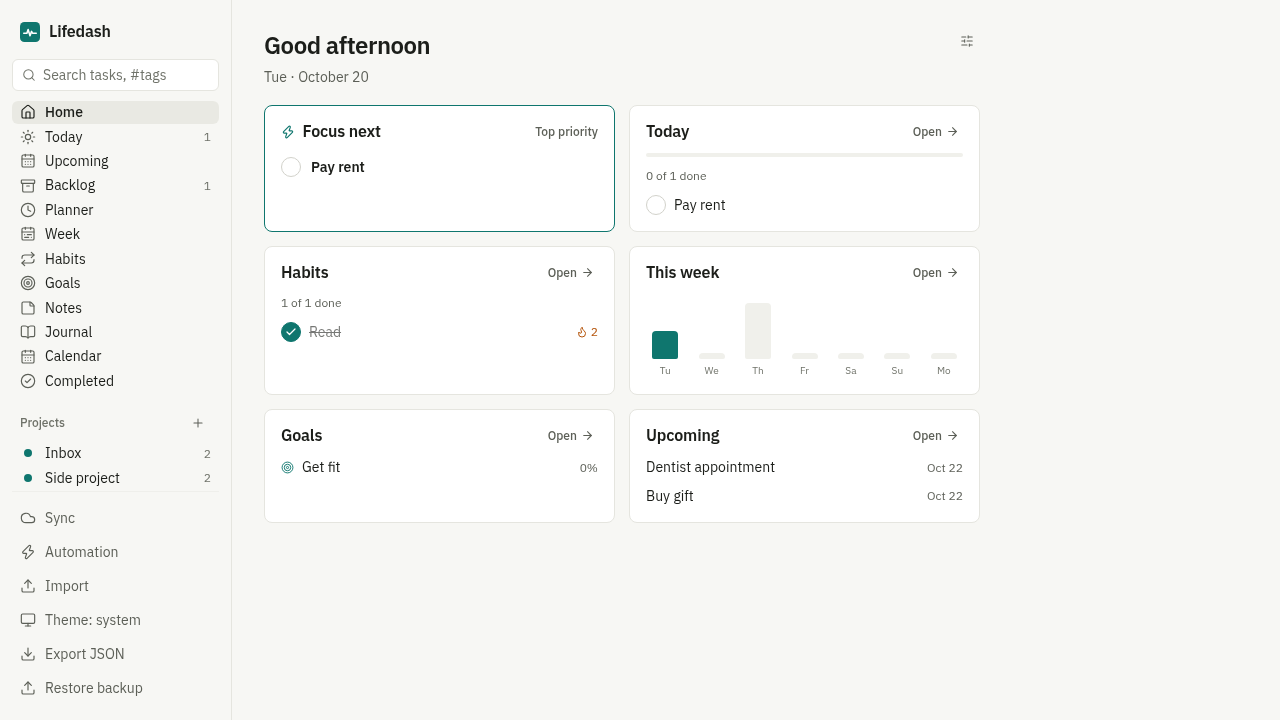
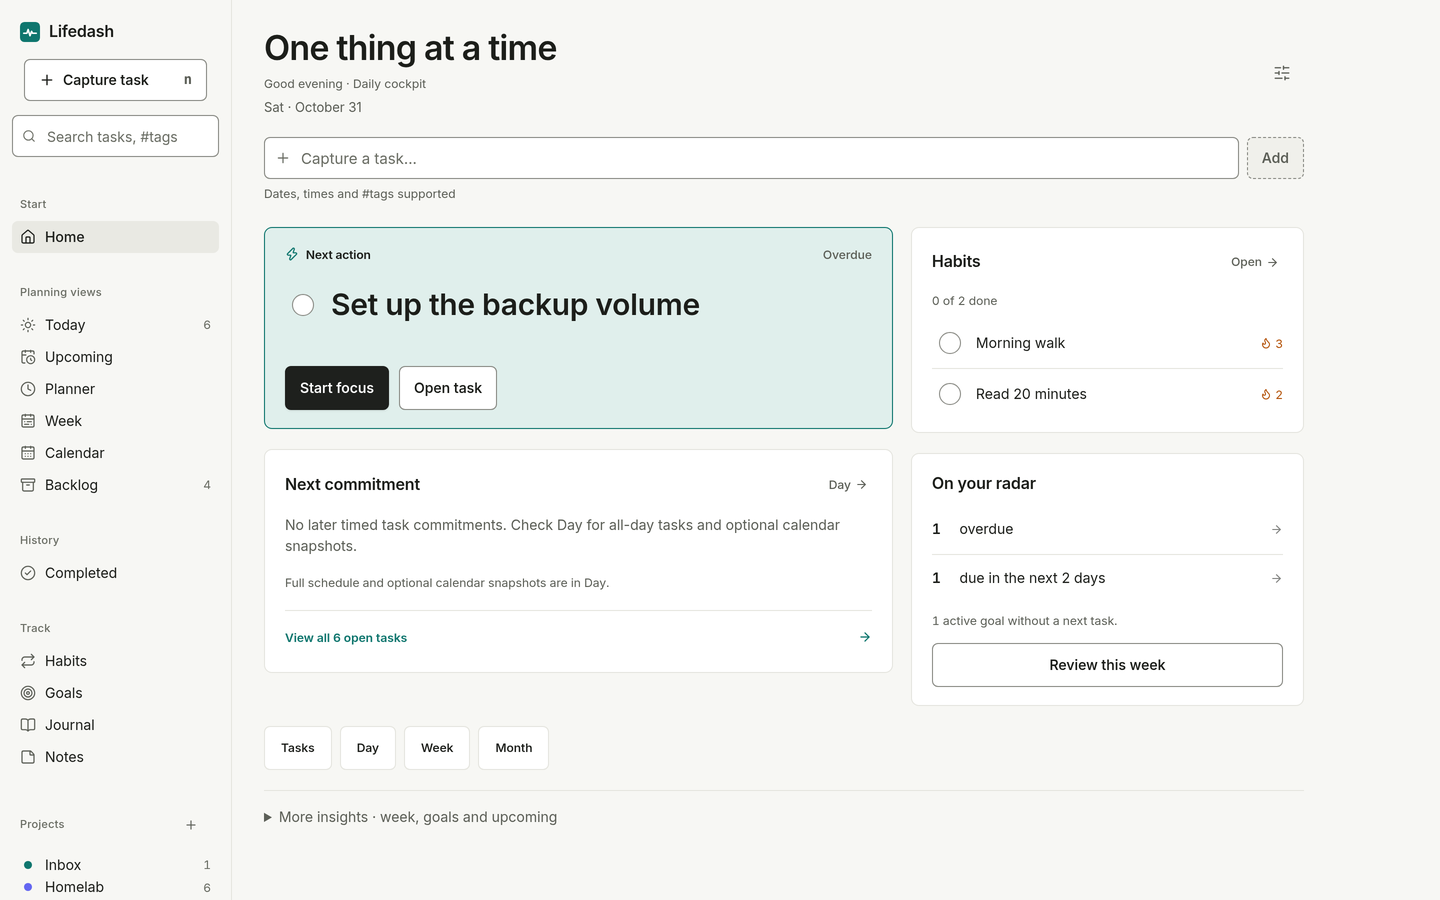
Rewrite README for open-sourcing with current screenshots
Restructured around a clear tagline, why/features, quick start, Docker
self-host and documentation map. New screenshots from the current UI
(home desktop light, week dark, habits, home mobile) captured with
fictional sample data, replacing the pre-theme-work shots. Fixes: the
SYNC_DB default now matches the code (/data/lifedash.db), the empty
Docs section is filled, and a Status section states what is and is not
included (manual ICS calendar exchange, no provider integration yet).
The restore hazard is called out before the self-host guide link rather
than smoothed over.

diff --git a/README.md b/README.md
@@ -1,70 +1,30 @@
-# LifeDash
+# Lifedash
 
-A whole-life dashboard built around a centralized task app: tasks, projects,
-habits, goals, notes, a journal and a day planner in one place. Local-first
-and installable as a PWA on desktop and mobile; an optional self-hosted sync
-server keeps devices in step.
+**Your whole life in one dashboard.** Tasks, projects, habits, goals, notes,
+a journal and a day planner in one place. Local-first and installable as a
+PWA on desktop and mobile; an optional self-hosted sync server keeps your
+devices in step.
 
-Single user, in active development.
+[![CI](https://github.com/JavohirMX/lifedash/actions/workflows/ci.yml/badge.svg)](https://github.com/JavohirMX/lifedash/actions/workflows/ci.yml)
 
-## Self-host
-
-From the repository root, run `make setup` for a guided Docker Compose setup
-(Python 3 and make required). It checks Docker/Compose/config, explains the
-network exposure and asks before building or starting services.
-`make setup-check` only runs the read-only preflight. It never starts services.
-The helper pins the root Compose file (ignores `COMPOSE_FILE` and implicit
-overrides), but your Docker context and `COMPOSE_PROJECT_NAME` still apply.
-Confirm the intended host/project before consenting: existing services may be
-recreated. Custom override stacks should use manual Compose. Its health check
-runs inside the selected sync container, not an unrelated service on a host port.
-
-Or start directly with Docker Compose:
-
-    docker compose up --build
-
-App on http://localhost:8080, sync server on http://localhost:8787.
-Open the bundled setup checklist at `http://localhost:8080/selfhost.html`
-(or use the setup-guide link in Settings). It walks through first-account setup,
-HTTPS/device URLs, sync limits and backups without contacting another service.
-
-Details and other deployment options: [server/SELFHOST.md](server/SELFHOST.md).
-
-## Local development
-
-Run `make install` once to install npm dependencies and a server virtual
-environment, including test dependencies. Then `make dev` starts the app on
-Vite's local URL and the sync server on http://127.0.0.1:8787. Ctrl-C stops
-both. `make test` runs both suites; `make build` builds the frontend.
-`make help` lists individual app/server and Docker targets. Python 3 with
-venv support, Node/npm and make are required. Docker targets additionally
-need Docker Engine and the Compose plugin.
-
-`make test-keyboard` starts a temporary loopback Vite server and runs the
-sample-only desktop/phone keyboard checks for dialogs, Appearance, the command
-palette, mobile navigation and Export. It needs an installed Chrome/Chromium;
-set `CHROME_PATH` if it is not `/usr/bin/google-chrome`. No real user database,
-sync account or AI provider is used. The server stops when checks finish or are
-interrupted. The default port is 4174; use `KEYBOARD_TEST_PORT` to choose another
-free port. An occupied port fails rather than using an existing server.
-
-`make test-selfhost` runs a disposable loopback API check for restart persistence
-and SQLite online backup/restore. It uses synthetic temporary databases only.
-It requires the installed server venv and a POSIX host; it does not test Docker,
-TLS, a reverse proxy or real-device sync.
-
-## Docs
-## Screenshots
-
-| Home | Week |
+| Home | Week (dark) |
 |---|---|
 | ![Home](shots/combined-home.png) | ![Week](shots/week-nav-overdue.png) |
 
-| Habits | Completed (mobile) |
+| Habits | Home (mobile) |
 |---|---|
-| ![Habits](shots/habits-past-toggle.png) | ![Completed](shots/completed-groups-mobile.png) |
+| ![Habits](shots/habits-past-toggle.png) | ![Home on mobile](shots/home-mobile.png) |
 
 More UI screenshots live in [`shots/`](shots/).
+
+## Why Lifedash
+
+- **Local-first.** Everything lives in your browser's IndexedDB and works
+  fully offline. No account is needed to use the app.
+- **Everything in one place.** Tasks, subtasks, projects, habits, goals,
+  rich-text notes, a daily journal and an hourly planner share one home.
+- **Yours to host.** The optional sync server is a small FastAPI + SQLite
+  service you run yourself - one Docker Compose file, no external services.
 
 ## Features
 
@@ -77,12 +37,11 @@ More UI screenshots live in [`shots/`](shots/).
 - Natural-language quick add ("Call Sam tomorrow 9am #personal")
 
 **Views**
-- Home: what matters now, with a suggested next task
+- Home: what matters now, with a suggested next action
 - Today: due today plus overdue; Upcoming: next 14 days grouped by day
 - Backlog: no-date parking lot, pull tasks into Today
 - Completed: grouped by completion day with counts
-- Week: seven columns, overdue strip, previous/next week navigation
-- Calendar: month grid with day drill-down
+- Week: seven columns with an overdue strip; Calendar: month grid with day drill-down
 - Planner: hourly timeline, drag tasks into time blocks or tap to schedule on touch
 - Projects with colors and per-project progress; Inbox for unsorted capture
 
@@ -93,17 +52,16 @@ More UI screenshots live in [`shots/`](shots/).
 - Journal: one entry per day with mood and jump-to-date
 - Global search across tasks, notes, journal and goals; command palette and keyboard shortcuts
 
-**Data**
-- Local-first: IndexedDB (Dexie); the app fully works offline
-- Import from Todoist CSV, generic CSV, Obsidian Markdown and LifeDash JSON
-- Export a full JSON backup and restore it
-- Optional self-hosted sync (FastAPI + SQLite, see `server/`) with offline queue
+**Data and appearance**
+- Import from Todoist CSV, generic CSV, Obsidian Markdown and Lifedash JSON;
+  export and restore a full JSON backup
+- Optional self-hosted sync (FastAPI + SQLite, see `server/`) with an offline queue
 - Automation rules: roll overdue tasks into Today; complete a parent when its subtasks finish
-- Light, dark or system theme
+- 16 selectable visual styles, each in light and dark; system theme respected
 
-## Quickstart
+## Quick start
 
-The app (`app/`) - needs Node 20+:
+The app (`app/`) needs Node 20+:
 
 ```bash
 cd app
@@ -111,7 +69,10 @@ npm install
 npm run dev        # http://localhost:5173
 ```
 
-The sync server (`server/`, optional) - needs Python 3.11+:
+Want a tour with fictional data? Open `http://localhost:5173/?sample` - a
+clearly marked sandbox that never touches your real database or sync account.
+
+The sync server (`server/`, optional) needs Python 3.11+:
 
 ```bash
 cd server
@@ -119,53 +80,70 @@ pip install -r requirements-dev.txt
 SYNC_DB=./dev.db SYNC_OPEN_REGISTRATION=1 uvicorn app.main:app --port 8787 --no-proxy-headers
 ```
 
-Or with Docker: `cd server && docker compose up -d --build`.
+## Self-host with Docker
 
-## Tests
+From the repository root:
 
 ```bash
-cd app && npm test          # unit tests (Vitest)
-cd app && npm run build     # type-check (tsc) + production build
-cd server && pytest         # sync server tests
+docker compose up --build
 ```
 
-CI runs both suites on every push to `main` and every PR
-(`.github/workflows/ci.yml`).
+App on http://localhost:8080, sync server on http://localhost:8787. Then open
+the bundled setup checklist at `http://localhost:8080/selfhost.html` - it walks
+through the first account, HTTPS and device URLs, sync limits and backups.
+Prefer a guided start? `make setup` runs the same checks interactively and asks
+before starting anything; `make setup-check` is the read-only preflight.
 
-## Configuration
+Put TLS in front before leaving localhost (the guide shows Caddy and Tailscale
+Funnel). Full deployment options: [server/SELFHOST.md](server/SELFHOST.md).
 
-The app needs no configuration. To enable sync, open the Sync dialog in the
-app and point it at your server URL and account.
+> **Know before you restore:** restoring an *older* server backup can silently
+> corrupt multi-device sync (devices miss later changes). The cautious manual
+> path is documented in [server/SELFHOST.md](server/SELFHOST.md) - read it
+> before restoring anything. Day-to-day backups are unaffected.
 
-Server environment variables:
+## Documentation
 
-| Variable | Default | Purpose |
-|---|---|---|
-| `SYNC_DB` | `./lifedash.db` | SQLite database path |
-| `SYNC_OPEN_REGISTRATION` | unset | `1` keeps account registration open; otherwise it closes after the first user |
+- [server/SELFHOST.md](server/SELFHOST.md) - full self-host guide: deploy, TLS, backups, recovery
+- [docs/self-host-hardening.md](docs/self-host-hardening.md) - limits, proxy/CORS settings, server environment variables
+- [docs/SPEC.md](docs/SPEC.md) - product spec · [docs/ARCHITECTURE.md](docs/ARCHITECTURE.md) - technical design · [docs/ROADMAP.md](docs/ROADMAP.md) - plans
 
-## Deploy
+## Development
 
-- **App:** `cd app && npm run build` produces a static `dist/` you can host
-  anywhere. Serve over HTTPS for install prompts and the service worker.
-- **Server:** Docker (see above) or a bare-metal Python process behind a TLS
-  reverse proxy. Full guide: [`server/SELFHOST.md`](server/SELFHOST.md).
+```bash
+make install   # one-time: npm deps + server venv with test deps
+make dev       # app (Vite) + sync server together; Ctrl-C stops both
+make test      # app unit tests + server tests
+make build     # production build of the app (app/dist)
+make help      # everything else (Docker, keyboard checks, self-host smoke)
+```
+
+Requires Python 3 with venv, Node/npm and make; Docker targets additionally
+need Docker Engine with the Compose plugin. CI runs both test suites and the
+production build on every push to `main` and every PR.
+
+Server configuration lives in environment variables; the two you will meet
+first are `SYNC_DB` (SQLite path, default `/data/lifedash.db`) and
+`SYNC_OPEN_REGISTRATION` (`1` keeps registration open; otherwise it closes
+after the first account). The full table with limits and defaults is in
+[docs/self-host-hardening.md](docs/self-host-hardening.md).
 
 ## Project structure
 
 ```
 app/      React + TypeScript + Vite PWA (Dexie, TipTap, rrule)
 server/   FastAPI + SQLite sync server (Dockerfile, compose, self-host guide)
-docs/     SPEC.md, ROADMAP.md, ARCHITECTURE.md
-shots/    real-browser screenshots referenced by PRs
+docs/     spec, architecture, roadmap, hardening reference
+shots/    real-browser screenshots referenced by the README and PRs
 ```
+
+## Status
+
+In active development. The app is offline-capable and covered by unit and
+real-browser checks; the sync server is aimed at self-hosters comfortable
+running a small service. Calendar exchange is manual ICS export/import; a
+provider integration is being explored but is not included.
 
 ## License
 
 Not yet chosen.
-
-## Fictional development data
-
-Run `cd app && npm run dev`, then open `/?sample`. Development builds use a separate `lifedash-sample` IndexedDB database, seeded once with fictional tasks, projects, notes, goals, habits and journal entries. An amber banner marks the sandbox. Exit by removing `?sample`; the real `lifedash` database stays separate. Delete only `lifedash-sample` in browser storage to reset it.
-
-Sample mode cannot read or change the saved real sync account, authenticate, revoke its token, or start manual/automatic sync. It does not block unrelated network features such as AI tools, so use only fictional content. Production builds ignore `?sample`.
